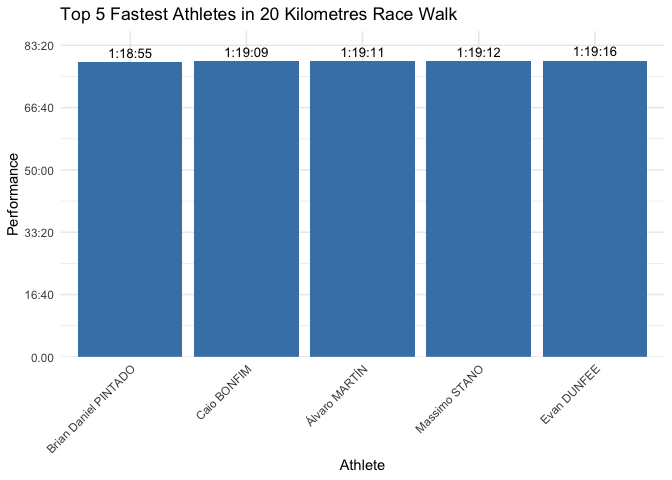
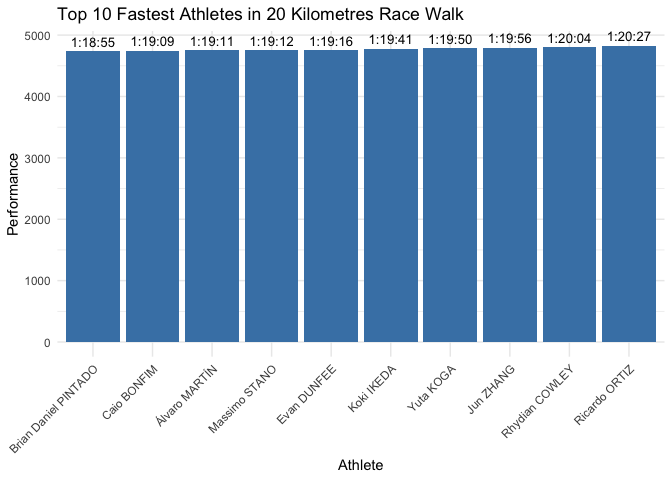
all checked

diff --git a/README.md b/README.md
@@ -27,17 +27,26 @@ devtools::install_github("Helenzzz07/blue")
 
 ## Example
 
-This is a basic example that shows how to look up and visualize an
+This is a basic example that shows how to look up and visualize top 10
 athlete’s performance:
 
 ``` r
 library(blue)
+library(dplyr)
+#> 
+#> Attaching package: 'dplyr'
+#> The following objects are masked from 'package:stats':
+#> 
+#>     filter, lag
+#> The following objects are masked from 'package:base':
+#> 
+#>     intersect, setdiff, setequal, union
 
 # Find the results URL for a specific athlete
 find_athlete("Álvaro MARTÍN")
 #> [1] "https://worldathletics.org/results/olympic-games/2024/the-xxxiii-olympic-games-7087/men/20-kilometres-race-walk/final/result#resultheader"
 
-# Plot the athlete's performance
+# Plot the top 10 athletes's performance in final round
 plot_event_top10 ("20 Kilometres Race Walk")
 ```
 
